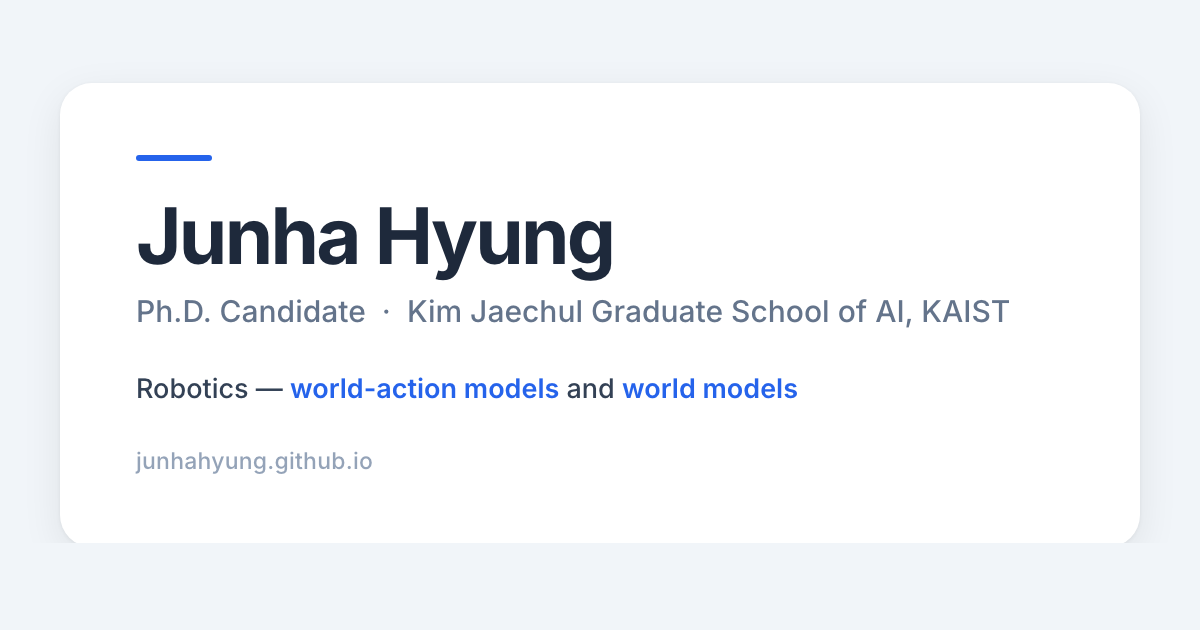
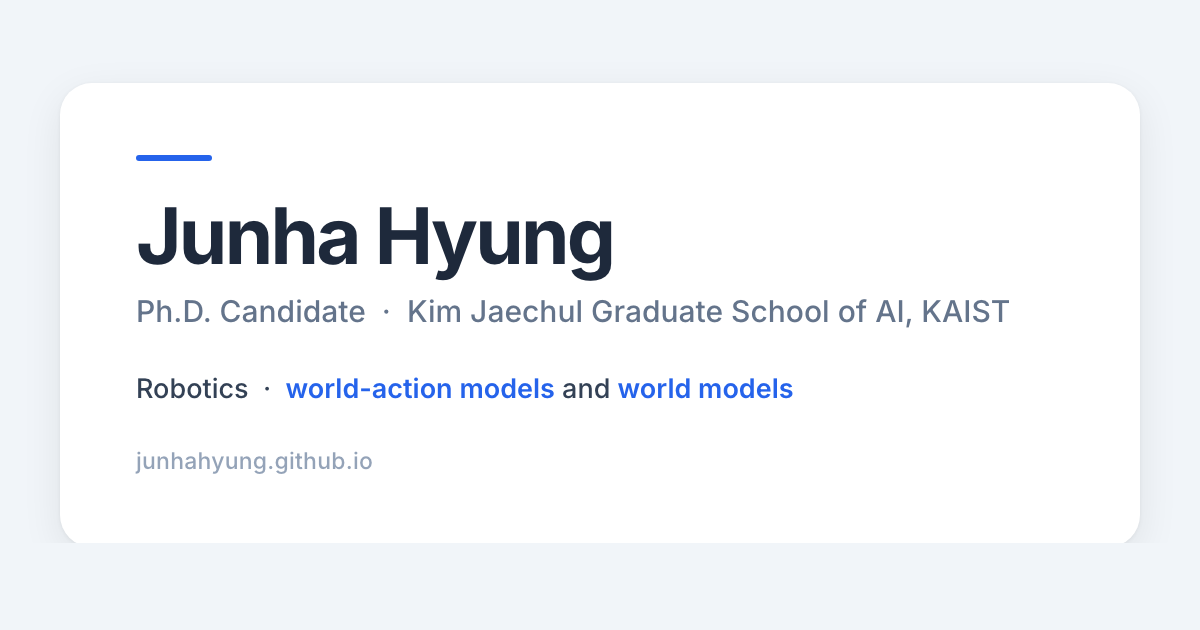
Replace the em dash in the bio and link card

Changed region(s): [[0.2158, 0.6032, 0.6783, 0.6333]]

diff --git a/_pages/home.html b/_pages/home.html
@@ -24,7 +24,7 @@ redirect_from:
       I'm a Ph.D. student at
       <a href="https://gsai.kaist.ac.kr/">Kim Jaechul Graduate School of AI, KAIST</a>,
       advised by Professor <a href="https://sites.google.com/site/jaegulchoo/">Jaegul Choo</a>.
-      My research interests lie in robotics &mdash; in particular
+      My research interests lie in robotics, particularly
       <strong>world-action models and world models</strong>.
     </div>
   </div>
